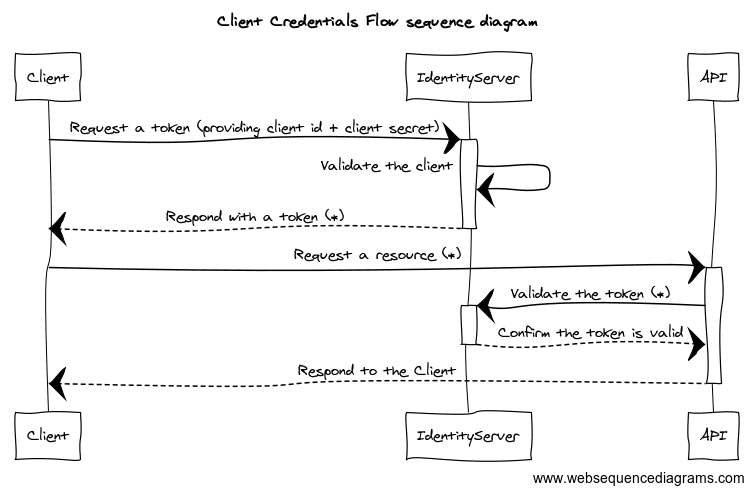
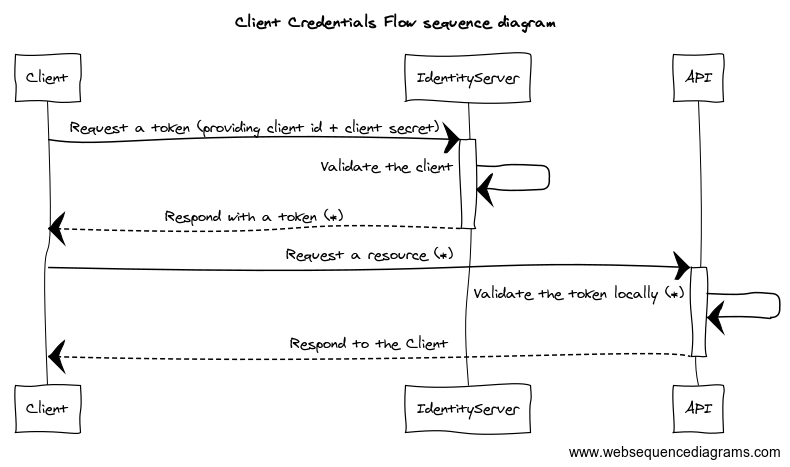
fix the Client Credentials Flow diagram (part where token gets validated) and improve description

diff --git a/_posts/2020-09-24-running-identityserver4-on-docker-with-https.md b/_posts/2020-09-24-running-identityserver4-on-docker-with-https.md
@@ -27,7 +27,7 @@ You've probably seen the diagram describing communication between these services
 
 ![Client Credentials Flow sequence diagram](/assets/2020-09-24-running-identityserver4-on-docker-with-https/client-credentials-flow-sequence-diagram.png)
 
-In order for the Client to be able to retrieve a resource from the API, first it needs to obtain a valid access token (shown as `(*)` in the above diagram) from the Identity Provider that's trusted by the API.
+In order for the Client to be able to retrieve a resource from the API, first it needs to obtain a valid access token (shown as `(*)` in the above diagram) from the Identity Provider that's trusted by the API. Even before that happens - the API service needs to retrieve the [JSON Web Key Set](https://tools.ietf.org/html/rfc7517#section-5) (JWK Set) from the Identity Provider so that it can [validate JWT tokens](https://tools.ietf.org/html/rfc7519#section-7.2) locally without the need to call the Identity Provider with every request (which is a huge advantage of using JWT tokens).
 
 When you're just running these services on your host machine, they all refer to each other by `localhost` addresses:
 
@@ -214,3 +214,5 @@ var disco = await client.GetDiscoveryDocumentAsync(
 ```
 
 Fully working example can be found [in this repository](https://github.com/mjarosie/IdentityServerDockerHttpsDemo).
+
+EDIT: Thanks to [u/odannyboy000](https://www.reddit.com/user/odannyboy000/) for pointing out the error in Client Credentials Flow diagram.
